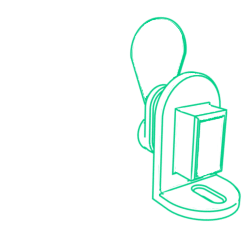
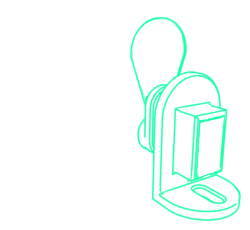
Added Eye outline and color correction

diff --git a/client/src/components/assembly/Eye.js b/client/src/components/assembly/Eye.js
@@ -1,4 +1,4 @@
-//import KM100_Background from './media/km100_outline.png'
+import Eye_Background from './media/Eye_outline.png'
 import RotaryCtrl from '../UI/CtrlUnits/RotaryCtrl';
 import Window from '../UI/experimentUI/Window';
 
@@ -28,19 +28,19 @@ const KM100 = (props) => {
       left={props.left}
       height='240px'
       width='250px'
-      background={''}
+      background={Eye_Background}
     >
       <RotaryCtrl
         rotation={props.rotationTop}
         component={props.controlIdTop}
-        top='20'
-        left='160'
+        top='15'
+        left='170'
       />
       <RotaryCtrl
         rotation={props.rotationBottom}
         component={props.controlIdBottom}
-        top='50'
-        left='160'
+        top='35'
+        left='170'
       />
     </Window>
   );
